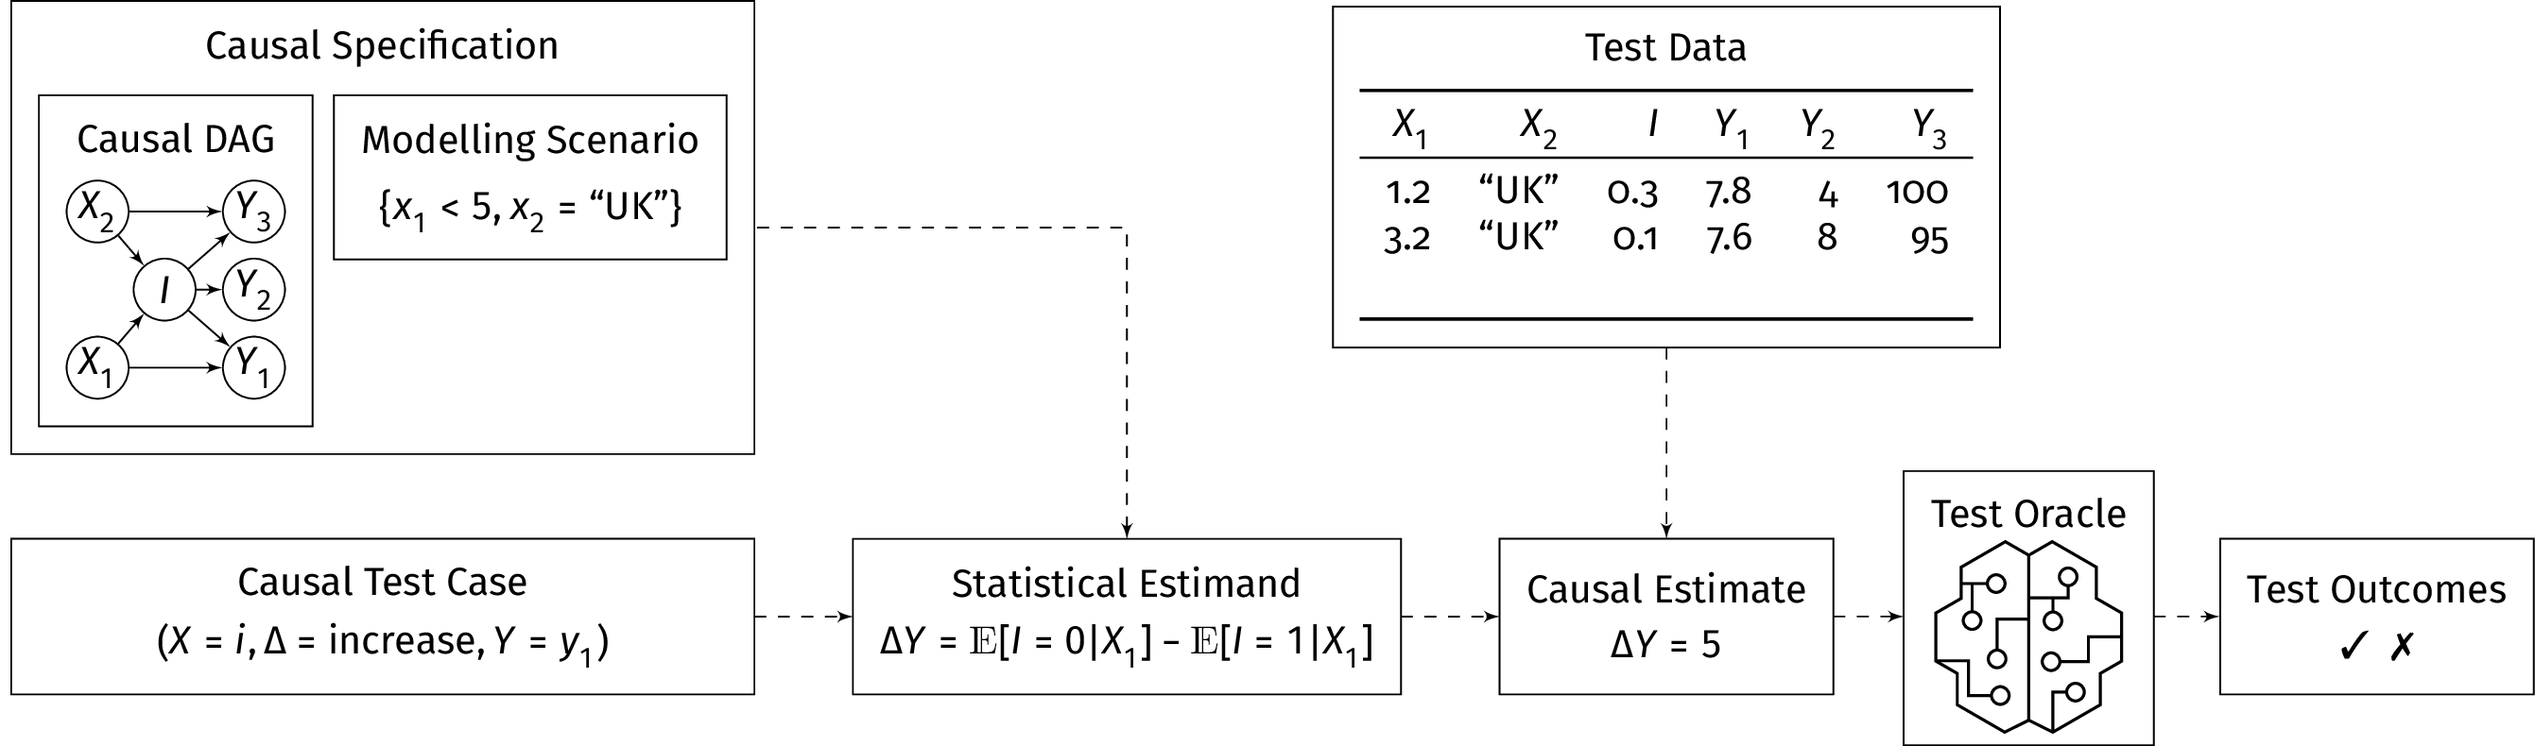
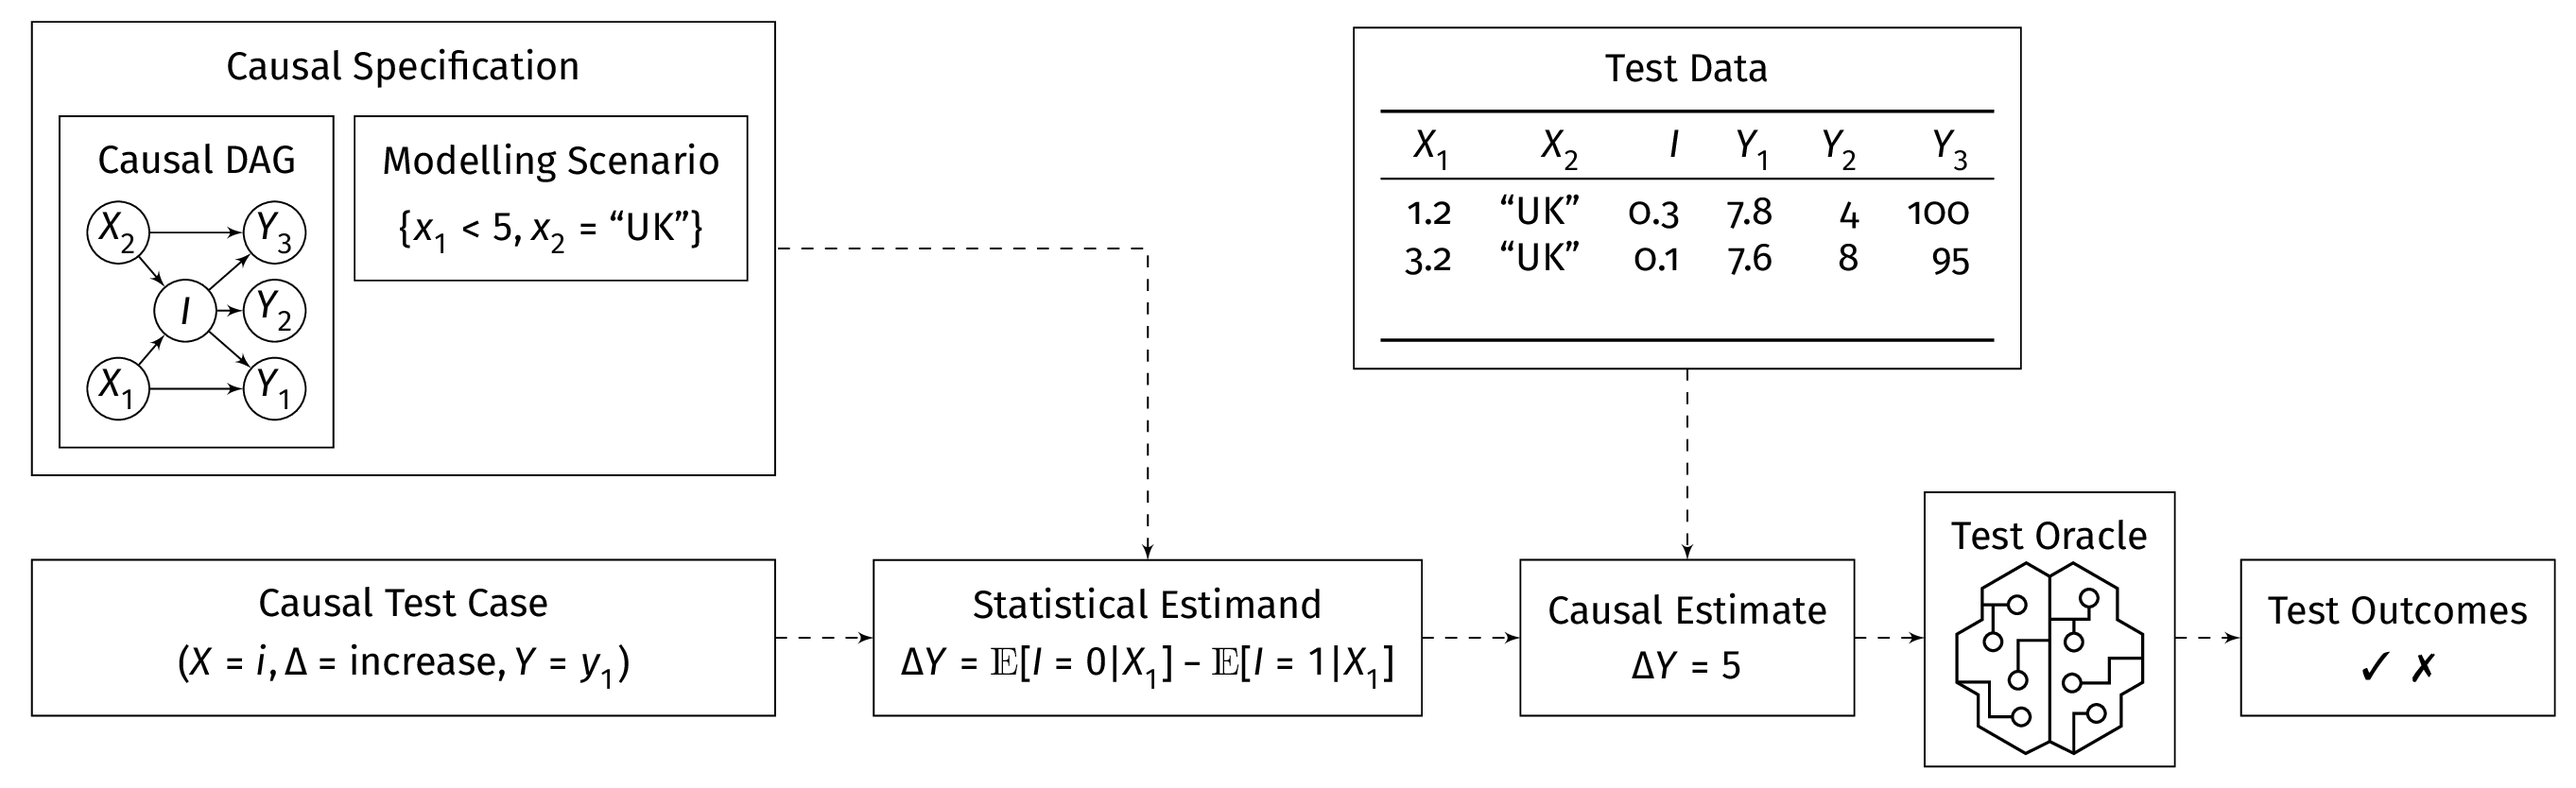
fix: schematic-dark.png and schematic.png

diff --git a/images/schematic.tex b/images/schematic.tex
@@ -20,7 +20,7 @@
 \newcommand{\cmark}{\ding{51}}%
 \newcommand{\xmark}{\ding{55}}%
 
-\begin{tikzpicture}[background rectangle/.style={fill=black}, show background rectangle, color=white]
+\begin{tikzpicture}[background rectangle/.style={fill=none}, show background rectangle, color=black]
 
   \begin{scope}[name prefix=scenario-, local bounding box=specification]
     % Causal DAG
